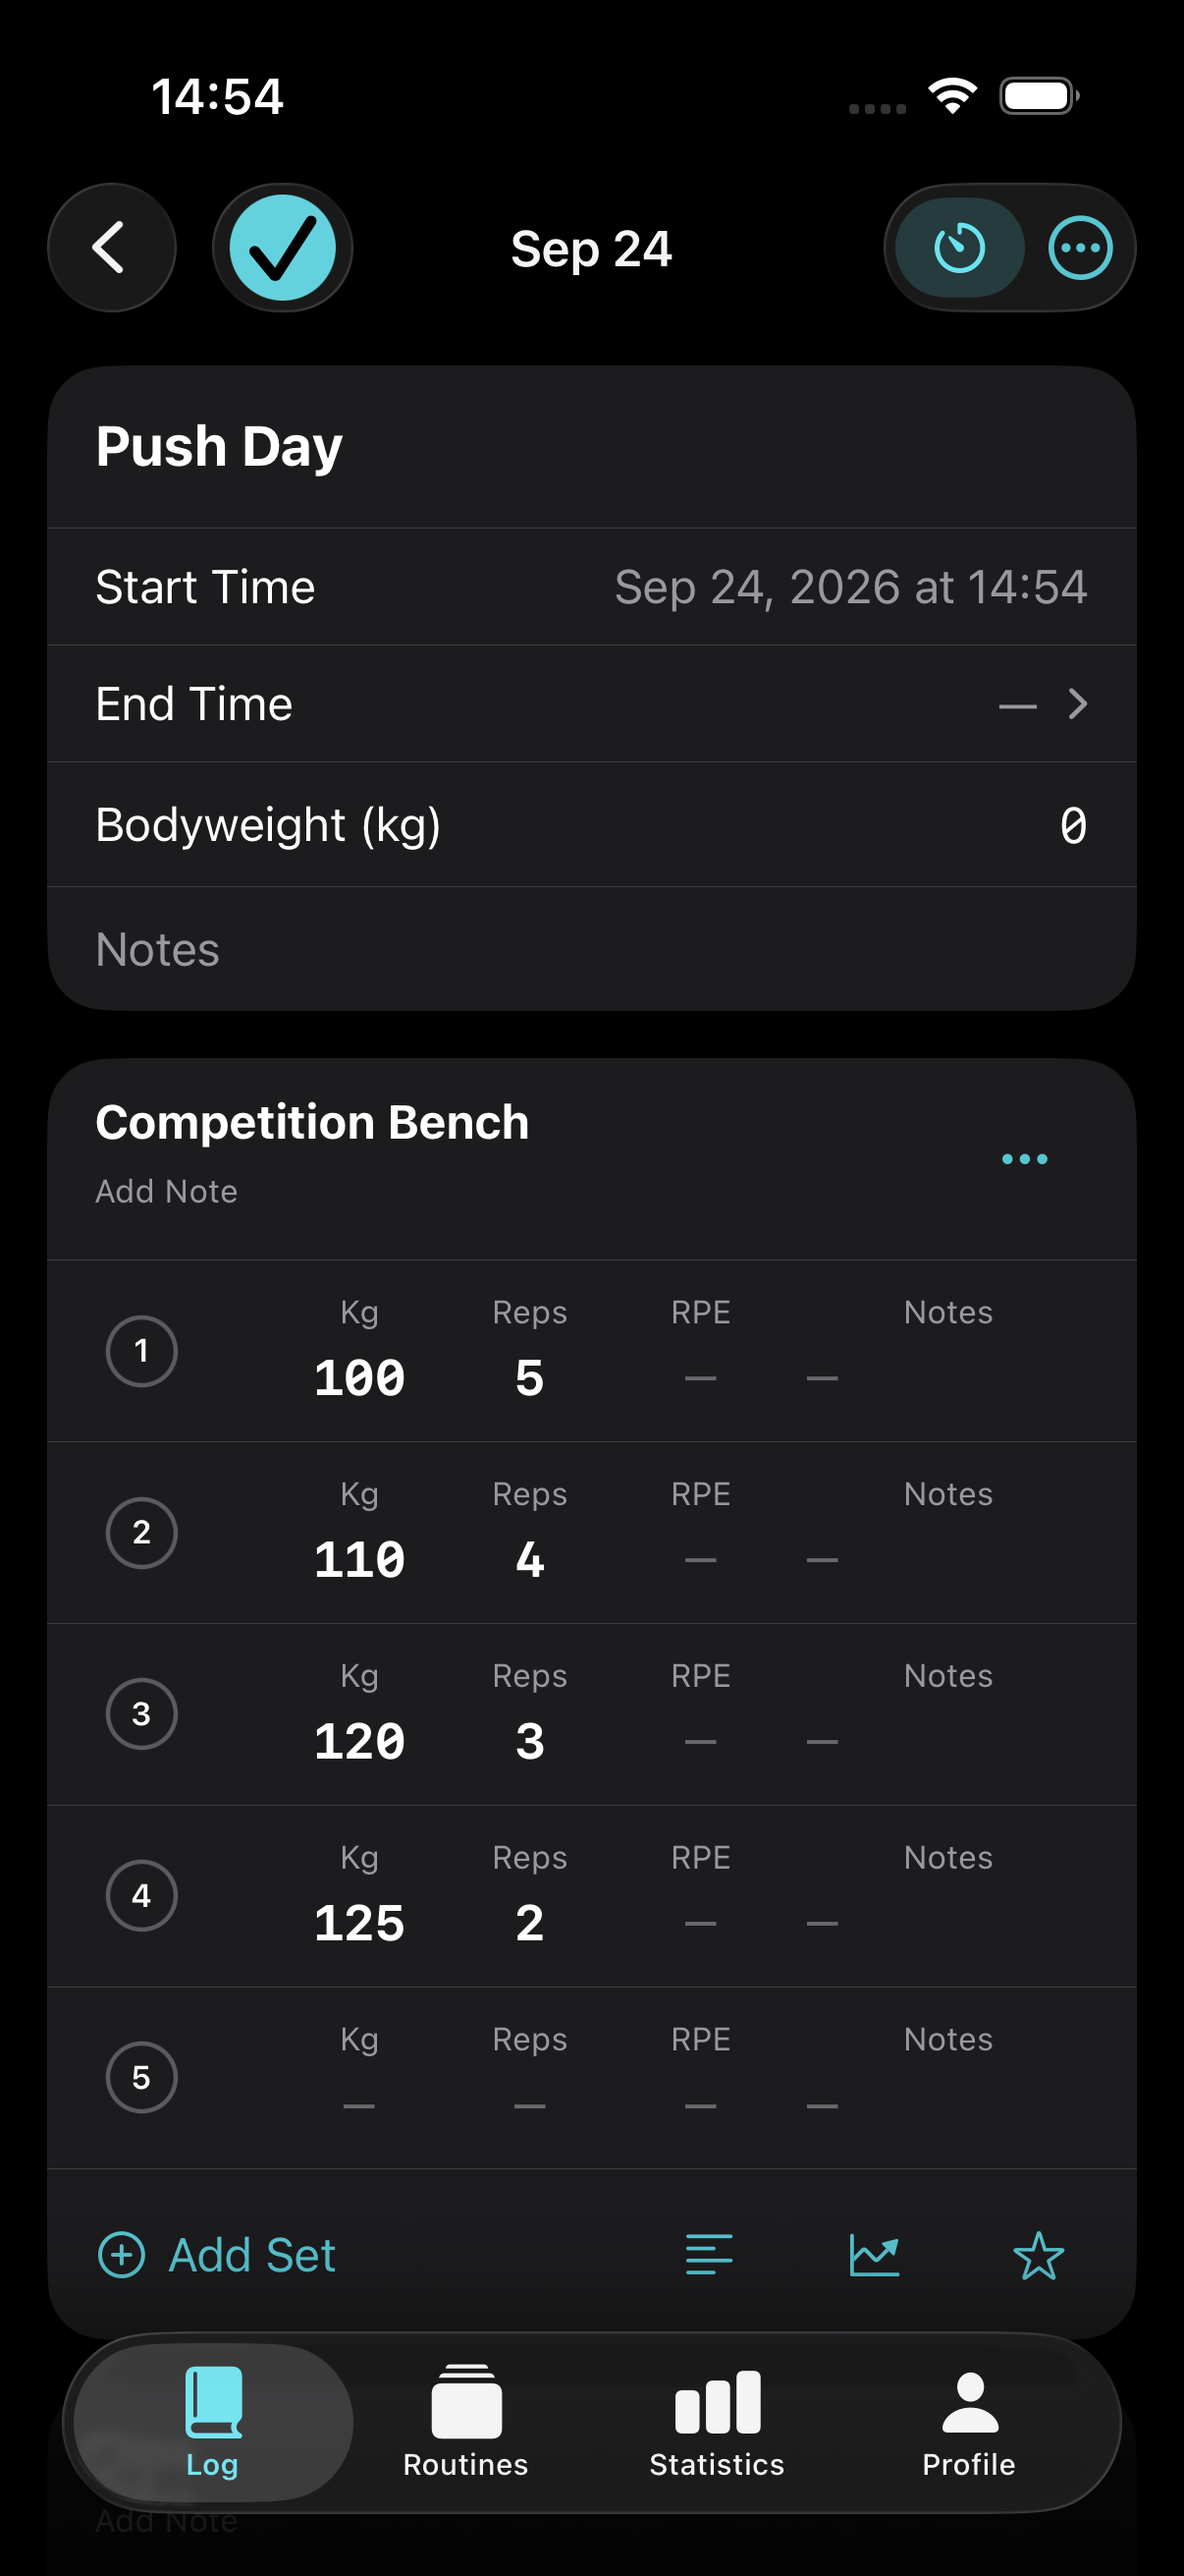
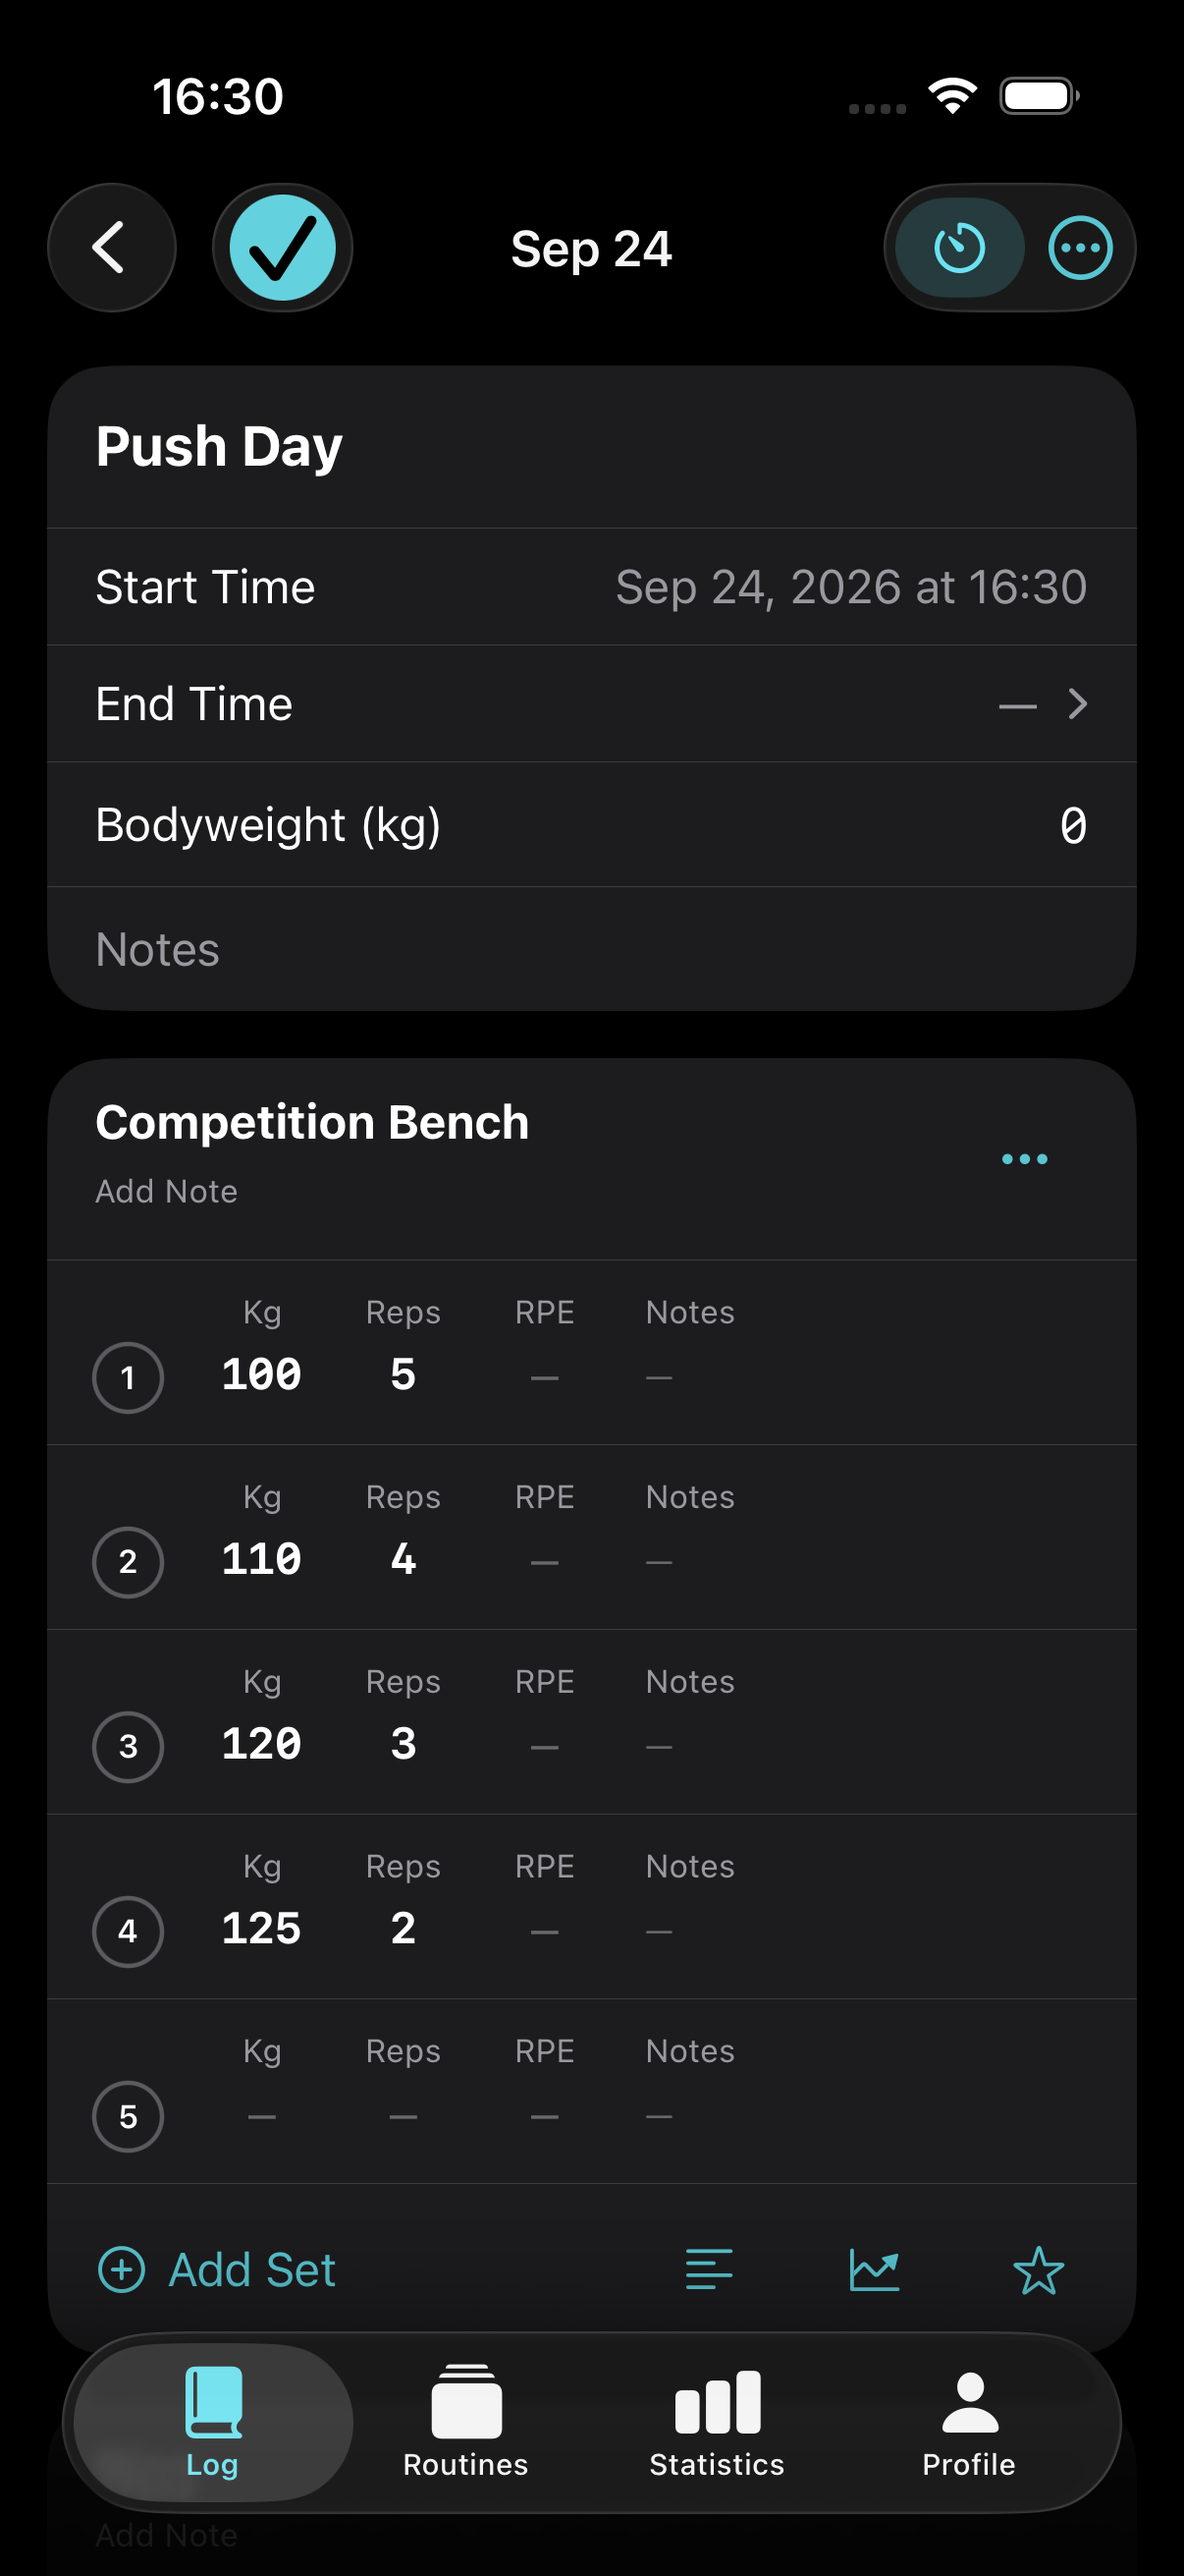
Docs + captures for the chosen set-row and Notes layout (1.1.2): the captures now come from the shipped default, verified flush (note 219.3pt, title 220.0pt)

diff --git a/docs/BUILD-REPORT.md b/docs/BUILD-REPORT.md
@@ -20,7 +20,7 @@ Gate: `scripts/mac-tests.sh` — build, the unit suite, then the UI suite
 
 ## Build status
 
-**Status: the whole Mac gate is green at commit `ff1cb43`** — `** BUILD
+**Status: the whole Mac gate is green at commit `5095eef`** — `** BUILD
 SUCCEEDED **`, 36/36 unit tests, **12/12 UI tests** including the in-simulator
 offline drill, in one `scripts/mac-tests.sh` run (§1.1, §0.1 and §0.3). The dark-mode visual
 pass covers every screen against the 17 reference screenshots (§4), and the
@@ -343,6 +343,74 @@ identifier used by a test changed; the icon buttons gained identifiers
 (the row rhythm, the smaller circle, and the icons on the Add Set row) and
 `docs/visual/07-active-workout.png` (a populated card top to bottom). Gate:
 `** BUILD SUCCEEDED **`, 36/36 unit, 12/12 UI, `All Mac tests passed.`
+
+---
+
+## 0.4 Set-row columns and the Notes column (owner report, 2026-09-24)
+
+Two rounds against reference screenshots. He picked from captured variants
+rather than a description, so both the geometry and the Notes treatment were
+chosen from real renders.
+
+### 0.4.1 Set-row columns — variant 4 chosen
+
+Asked: "stretch the columns so they sit a bit closer to the set number circles
+... the gap either side of kg, reps, and rpe column should be equal, and notes
+should be slightly wider. shrink the font size for weight, reps, and rpe by
+1-2pts, and shrink the font size for notes another 1-2."
+
+Four variants were built and captured (`-RowLayout <1...4>`, one build, one
+capture run per variant) with the gutter and the type size as the axes. He
+picked **variant 4 — a 20 pt gutter, numbers at 15 pt**:
+
+| Change | Before | Now |
+|---|---|---|
+| Column gap | a spacer pushed the columns right, cells butted at 44 pt | a uniform 20 pt between the circle and every column |
+| Numeric column width | minimum 44 pt, moved with the digits | a fixed three-digit width (28 pt at 15 pt type), so "5" and "140" hold the same place |
+| Number size | 17 pt | 15 pt |
+| Row height | 11 pt above/below | unchanged (11 pt) |
+
+### 0.4.2 The Notes column — option 3 chosen
+
+Asked: one copy of the note only; the note's type "about the same size as the
+title of the 'notes' column", in a font matching the rest of the app; the title
+level with Kg/Reps/RPE; and the title and the note pulled together "until the
+first letter in the note is centered under the 'notes' column title".
+
+Four treatments (`-NotesStyle <1...4>`) were captured with an RPE and a note
+typed in. He picked **option 3 — the label and the note flush left together,
+the note in the caption size**:
+
+| Fix | Cause | Now |
+|---|---|---|
+| The note appeared twice | a `Text` under each row repeated the note that was already in the Notes box | the second line is deleted; the UI test asserts the note is in the box **and** that nothing repeats it |
+| "Notes" sat lower than Kg/Reps/RPE | the row was centre-aligned, so the shorter Notes cell (smaller value type) dropped its label | the row is top-aligned and the circle cell reserves the same title line, so all four titles share one pixel row (measured: all start at y 441.3 pt) |
+| The note floated in the middle of its column | the field was centre-aligned inside the wide Notes cell | left-aligned; the note and its title share the column's leading edge (measured: title left 220.0 pt, note 219.3 pt) |
+| Note type too large | 17 pt monospaced | the caption size in the app's own text font |
+
+### 0.4.3 Gate at `5095eef`
+
+One `scripts/mac-tests.sh` run after the change: `** BUILD SUCCEEDED **`,
+36/36 unit, **12/12 UI**, `All Mac tests passed.`
+
+The first run of this gate was **red** — `testSetNoteEntry` asserted the note
+rendered as a second line under the row, which is exactly what the owner asked
+to delete. The test was rewritten to assert the new rule (in the box once, and
+nowhere else) and the gate re-run green. A stale test that contradicts a
+deliberate behaviour change is a test to fix, not a reason to keep the
+behaviour.
+
+### 0.4.4 Published
+
+**1.1.2 (build 5)** — 685,901 bytes, sha256
[1 lines of base64/hex data omitted]
+from `5095eef`; the served file's sha256 was read back over HTTPS and matches,
+and the install page reads 1.1.2 built 2026-09-24 15:23 UTC.
+
+**Scaffolding note:** both choices live behind `RowLayout.default` /
+`NotesStyle.default` with the other variants still compiled in and selectable
+by launch argument, so the alternatives can be re-shot without a code change.
+That scaffolding comes out once the look is signed off on the phone.
 
 ---
 
